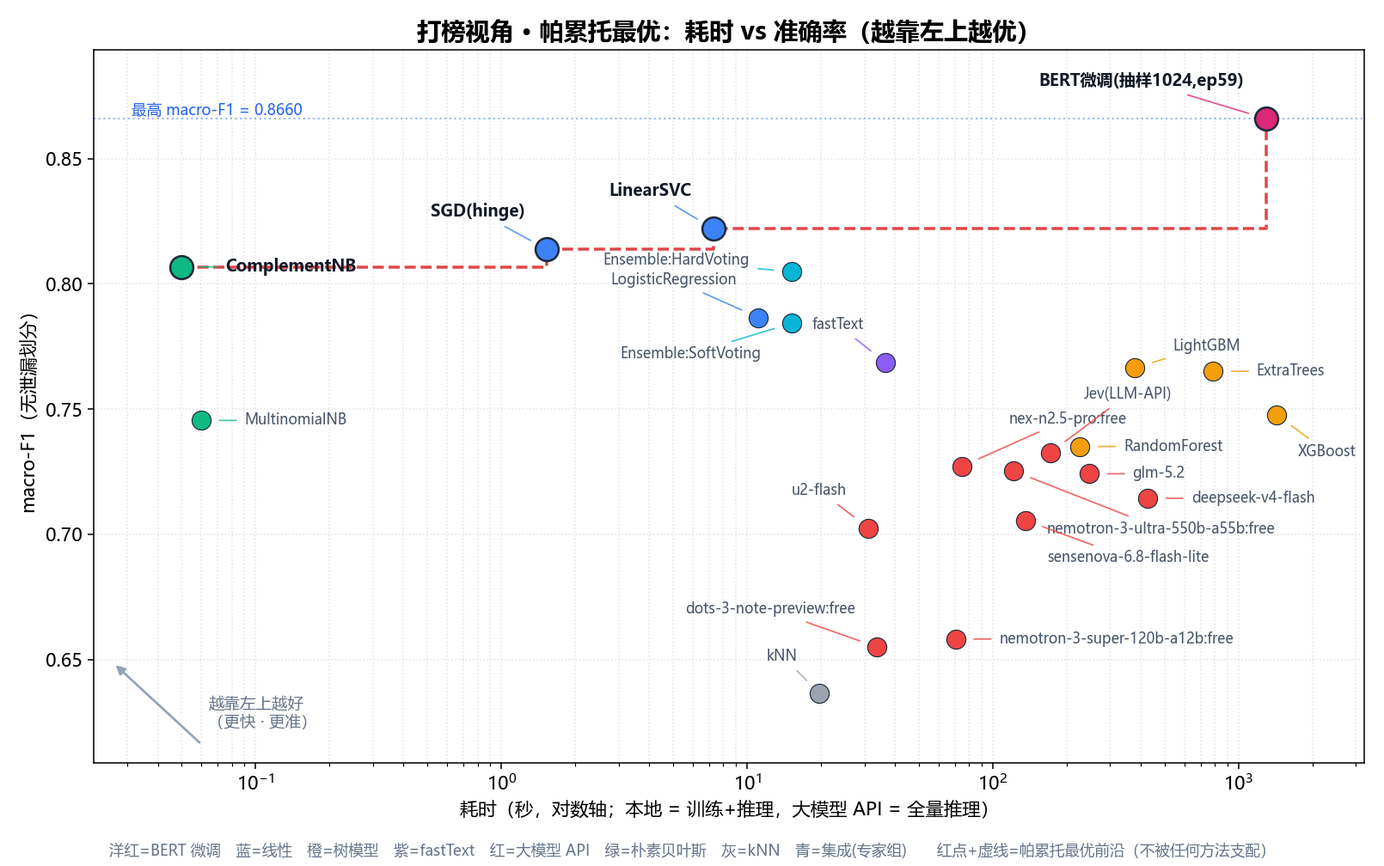
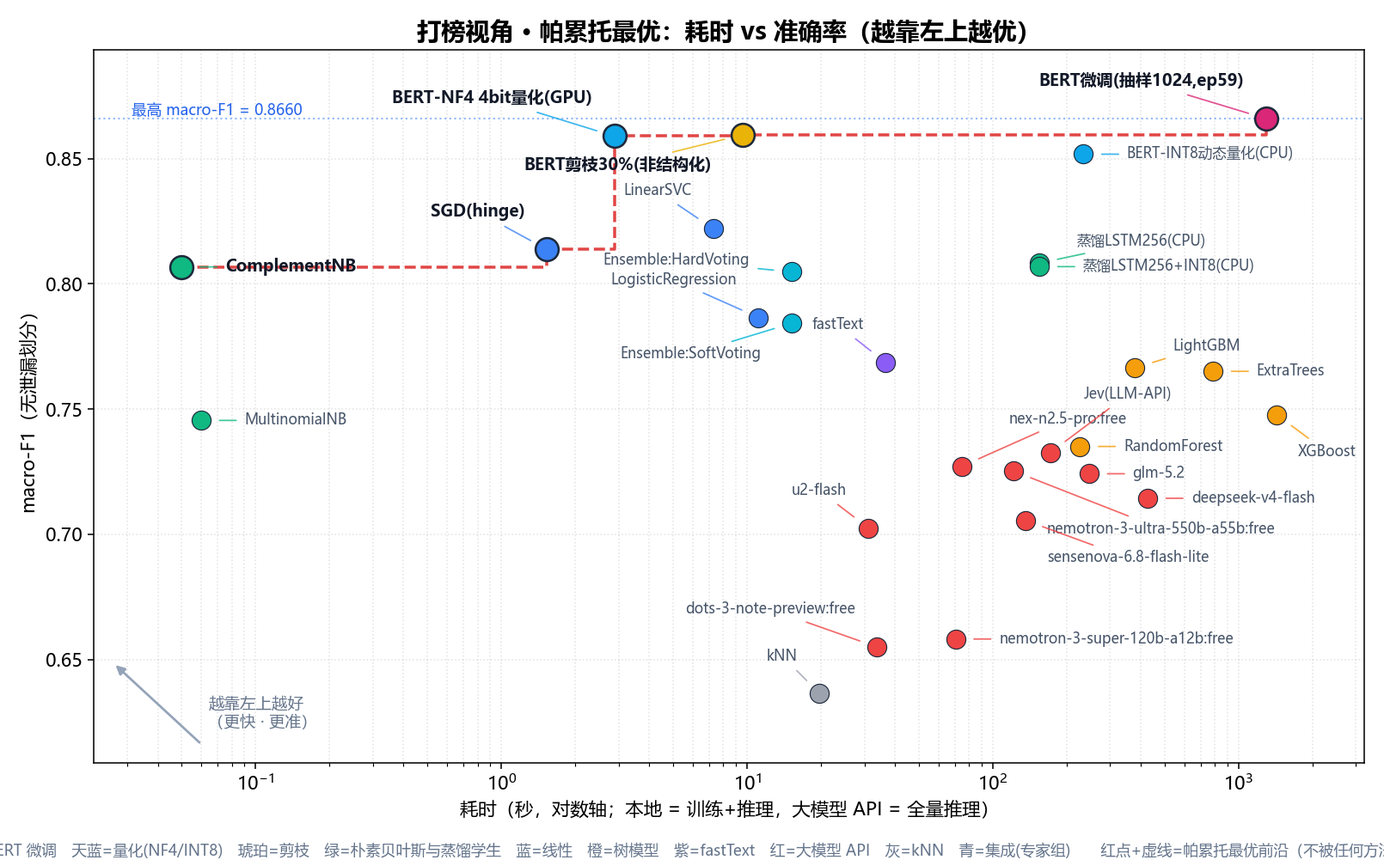
feat: 5.11 模型压缩(量化/4bit/蒸馏/剪枝) + README 全篇同步
- 四个压缩实验各跑独立 Kaggle 内核: INT8 动态量化(CPU) / bnb NF4 4bit(GPU) /
  非结构化剪枝 30%·50%(GPU) / LSTM 软标签蒸馏(T=2 a=0.7, 128维8轮与256维20轮)
- 关键结果(教师 390.3MB / GPU 6.50ms / F1 0.8660):
  NF4 4bit 108.1MB / 2.09ms / F1 0.8590 (体积-72.3%, 速度3.1x, F1 -0.70)
  INT8 动态量化 145.6MB / CPU 169.41ms / F1 0.8518 (与讲义 145M 同量级)
  剪枝 30% F1 0.8595 但体积不变延迟反升; 50% 崩到 0.7704
  LSTM 蒸馏 24.7MB / CPU 2.15ms / F1 0.8083; 128维8轮仅 0.6923
  反面实验: 沿用 BERT 抽样协议(12轮x1024)训学生只有 0.5131 -> 小模型必须全量训
- 打榜联动: 5 个压缩变体并入 5.5 榜单, 帕累托前沿 4 -> 5 个成员,
  LinearSVC 被 NF4(F1 0.8590 @ 2.9s) 挤出边界
- README 全篇同步(非只加新章节): 5.5 标题与表(23->28 个方法)与观察条目、
  5.6 前沿成员与设备口径提醒、5.9 标题与导语、5.11 新章节、结论顺延 5.12 并补
  压缩与部署推荐、仓库结构补 4 个文件; resources/TENSOR.md 补 3.7 压缩小节
- 新增: resources/bert_compress.json / make_compress_fig.py /
  merge_compress_results.py / figures/19_compress_compare.png; 重出 09/10 图
- .gitignore 忽略 .workbuddy/(会话工作数据)

diff --git a/resources/make_compress_fig.py b/resources/make_compress_fig.py
@@ -36,16 +36,22 @@ def get(name, key):
 
 # 展示顺序与设备标注（名称, 设备, 颜色）
 ITEMS = [
-    ("教师BERT fp32",      "GPU", "#d946ef"),
-    ("NF4 4bit量化(GPU)",  "GPU", "#3b82f6"),
-    ("剪枝30%(非结构化)",  "GPU", "#f59e0b"),
-    ("剪枝50%(非结构化)",  "GPU", "#f59e0b"),
-    ("教师BERT fp32-CPU",  "CPU", "#d946ef"),
-    ("INT8动态量化(CPU)",  "CPU", "#3b82f6"),
-    ("蒸馏4层学生 fp32",   "GPU", "#10b981"),
-    ("蒸馏4层学生 INT8(CPU)", "CPU", "#10b981"),
+    ("教师BERT fp32",            "GPU", "#d946ef"),
+    ("NF4 4bit量化(GPU)",        "GPU", "#3b82f6"),
+    ("剪枝30%(非结构化)",         "GPU", "#f59e0b"),
+    ("剪枝50%(非结构化)",         "GPU", "#f59e0b"),
+    ("蒸馏LSTM学生 256维(20轮)",   "GPU", "#10b981"),
+    ("蒸馏LSTM学生 128维(8轮)",    "GPU", "#10b981"),
+    ("教师BERT fp32-CPU",        "CPU", "#d946ef"),
+    ("INT8动态量化(CPU)",         "CPU", "#3b82f6"),
+    ("剪枝30%(CPU)",             "CPU", "#f59e0b"),
+    ("蒸馏LSTM学生 256维(20轮)-CPU", "CPU", "#10b981"),
+    ("蒸馏LSTM学生 256维+INT8(CPU)", "CPU", "#10b981"),
+    ("蒸馏LSTM学生 128维(8轮)-CPU", "CPU", "#10b981"),
+    ("蒸馏LSTM学生 128维+INT8(CPU)", "CPU", "#10b981"),
 ]
-items = [(n, dev, c) for n, dev, c in ITEMS if get(n, "macro_f1") is not None]
+items = [(n, dev, c) for n, dev, c in ITEMS if get(n, "macro_f1") is not None
+         or (get(n, "ms_per_sample") is not None and get(n, "size_mb") is not None)]
 print("可用方案:", [n for n, _, _ in items])
 
 fig, axes = plt.subplots(1, 3, figsize=(15.2, 6.4), facecolor="white", dpi=DPI)
@@ -54,16 +60,22 @@ labels = [f"{n}\n[{dev}]" for n, dev, _ in items]
 colors = [c for _, _, c in items]
 ys = list(range(len(items)))[::-1]
 
+def num(v):
+    """缺测的指标记为 0（柱不出），标注用 - 占位。"""
+    return 0.0 if v is None else v
+
+
 # ---- A: 精度 ----
 ax = axes[0]
-f1s = [get(n, "macro_f1") for n, _, _ in items]
+f1s = [num(get(n, "macro_f1")) for n, _, _ in items]
 accs = [get(n, "acc") for n, _, _ in items]
 ax.barh(ys, f1s, color=colors, alpha=0.85, height=0.62)
-lo = min(f1s) - 0.04
+lo = min(v for v in f1s if v) - 0.04
 ax.set_xlim(lo, max(f1s) + 0.015)
 for y, f1, acc in zip(ys, f1s, accs):
-    ax.text(f1 + 0.002, y, f"F1 {f1:.4f}\nacc {acc:.4f}", va="center",
-            fontsize=8.6, color="#0f172a")
+    txt = "未测(纯延迟对照)" if f1 == 0 else f"F1 {f1:.4f}\nacc {acc:.4f}"
+    ax.text((f1 if f1 else lo) + 0.002, y, txt, va="center",
+            fontsize=8.4, color="#0f172a")
 ax.set_yticks(ys); ax.set_yticklabels(labels, fontsize=8.6)
 ax.set_title("精度（越高越好）", fontsize=12, fontweight="bold", color="#0f172a")
 ax.set_xlabel("macro-F1", fontsize=10)
@@ -71,10 +83,10 @@ ax.grid(axis="x", alpha=0.25)
 
 # ---- B: 体积 ----
 ax = axes[1]
-sizes = [get(n, "size_mb") for n, _, _ in items]
+sizes = [num(get(n, "size_mb")) for n, _, _ in items]
 ax.barh(ys, sizes, color=colors, alpha=0.85, height=0.62)
 for y, s in zip(ys, sizes):
-    ax.text(s + max(sizes) * 0.012, y, f"{s:.1f} MB", va="center",
+    ax.text(s + max(sizes) * 0.012, y, f"{s:.1f} MB" if s else "-", va="center",
             fontsize=9, color="#0f172a")
 ax.set_xlim(0, max(sizes) * 1.22)
 ax.set_yticks(ys); ax.set_yticklabels([]) 
@@ -84,10 +96,10 @@ ax.grid(axis="x", alpha=0.25)
 
 # ---- C: 延迟 ----
 ax = axes[2]
-lats = [get(n, "ms_per_sample") for n, _, _ in items]
+lats = [num(get(n, "ms_per_sample")) for n, _, _ in items]
 ax.barh(ys, lats, color=colors, alpha=0.85, height=0.62)
 for y, l in zip(ys, lats):
-    ax.text(l + max(lats) * 0.012, y, f"{l:.2f} ms", va="center",
+    ax.text(l + max(lats) * 0.012, y, f"{l:.2f} ms" if l else "-", va="center",
             fontsize=9, color="#0f172a")
 ax.set_xlim(0, max(lats) * 1.22)
 ax.set_yticks(ys); ax.set_yticklabels([])

diff --git a/resources/merge_compress_results.py b/resources/merge_compress_results.py
@@ -1,8 +1,9 @@
 # -*- coding: utf-8 -*-
-"""合并四个压缩内核的输出为 resources/bert_compress.json。
+"""合并各压缩内核输出为 resources/bert_compress.json。
 
-输入：D:\B++\WorkBuddy\kaggle_bert_compress\out_{int8,nf4,prune,kd}\bert_cmp_*.json
-输出：resources/bert_compress.json（results 扁平合并，冲突以后到的内核为准）
+- int8 / nf4b / prune 三个内核结果直接取用；
+- KD 有两版：kd2（128 维学生 8 轮）与 kd3（256 维学生 20 轮），改名为可区分的
+  名称后合并；kd（初版训练不足）只作反面证据写进 README，不进本表。
 """
 import os
 import json
@@ -11,25 +12,42 @@ BASE = r"D:\B++\WorkBuddy\kaggle_bert_compress"
 RES = os.path.join(os.path.dirname(os.path.dirname(os.path.abspath(__file__))),
                    "resources")
 
-merged = {"results": {}, "sources": {}}
-for tag in ("int8", "nf4", "prune", "kd"):
-    d = os.path.join(BASE, "out_" + tag)
+KD2_RENAME = {
+    "蒸馏LSTM学生 fp32": "蒸馏LSTM学生 128维(8轮)",
+    "蒸馏LSTM学生 fp32-CPU": "蒸馏LSTM学生 128维(8轮)-CPU",
+    "蒸馏LSTM学生 INT8(CPU)": "蒸馏LSTM学生 128维+INT8(CPU)",
+}
+KD3_RENAME = {
+    "蒸馏LSTM学生 fp32": "蒸馏LSTM学生 256维(20轮)",
+    "蒸馏LSTM学生 fp32-CPU": "蒸馏LSTM学生 256维(20轮)-CPU",
+    "蒸馏LSTM学生 INT8(CPU)": "蒸馏LSTM学生 256维+INT8(CPU)",
+}
+SOURCES = [
+    ("int8", "out_int8", {}),
+    ("nf4", "out_nf4b", {}),
+    ("prune", "out_prune", {"剪枝30%%(CPU)": "剪枝30%(CPU)"}),
+    ("kd2", "out_kd2", KD2_RENAME),
+    ("kd3", "out_kd3", KD3_RENAME),
+]
+
+merged = {"results": {}, "sources": {}, "meta": {}}
+for tag, d, rename in SOURCES:
+    d = os.path.join(BASE, d)
     if not os.path.isdir(d):
         print("missing", d)
         continue
     for f in os.listdir(d):
         if f.startswith("bert_cmp") and f.endswith(".json"):
             j = json.load(open(os.path.join(d, f), encoding="utf-8"))
-            merged["n_test"] = j.get("n_test")
-            merged["batch"] = j.get("batch")
-            merged["max_len"] = j.get("max_len")
-            merged["gpu"] = j.get("gpu")
+            for k in ("n_test", "batch", "max_len"):
+                if j.get(k) is not None:
+                    merged["meta"][k] = j[k]
             for k, v in j.get("results", {}).items():
-                merged["results"][k] = v
-                merged["sources"][k] = "wubarry/textcls-cmp-" + tag
-merged["results"] = dict(sorted(merged["results"].items()))
+                name = rename.get(k, k)
+                merged["results"][name] = v
+                merged["sources"][name] = "wubarry/textcls-cmp-" + tag
 out = os.path.join(RES, "bert_compress.json")
 json.dump(merged, open(out, "w", encoding="utf-8"), ensure_ascii=False, indent=1)
 print("merged ->", out)
 for k, v in merged["results"].items():
-    print(f"{k:28s} {json.dumps(v, ensure_ascii=False)}")
+    print(f"{k:30s} {json.dumps(v, ensure_ascii=False)}")

diff --git a/resources/make_compare_fig.py b/resources/make_compare_fig.py
@@ -26,6 +26,12 @@ fit = [round((r.get("fit_s") or 0.0) + (r.get("infer_s") or 0.0), 2) for r in ro
 
 
 def color(n):
+    if "蒸馏" in n:
+        return "#10b981"          # 蒸馏学生 绿
+    if "量化" in n or "NF4" in n or "INT8" in n:
+        return "#0ea5e9"          # 量化 天蓝
+    if "剪枝" in n:
+        return "#eab308"          # 剪枝 琥珀
     if "BERT" in n:
         return "#db2777"          # BERT 微调 洋红
     if n.startswith("Ensemble"):
@@ -87,7 +93,7 @@ ax.set_axisbelow(True)
 
 fig.suptitle(f"消费者投诉文本分类 · {len(names)} 个方法横向对比", fontsize=15, fontweight="bold", y=0.99)
 fig.text(0.5, 0.005,
-         "洋红=BERT 微调　蓝=线性模型　橙=树模型　紫=fastText　红=大模型 API　绿=朴素贝叶斯　灰=kNN　青=集成(专家组)（同一无泄漏划分）",
+         "洋红=BERT 微调　天蓝=量化(NF4/INT8)　琥珀=剪枝　绿=朴素贝叶斯与蒸馏学生　蓝=线性模型　橙=树模型　紫=fastText　红=大模型 API　灰=kNN　青=集成(专家组)（同一无泄漏划分）",
          ha="center", fontsize=9, color="#64748b")
 plt.tight_layout(rect=[0, 0.03, 1, 0.96])
 

diff --git a/resources/make_pareto_fig.py b/resources/make_pareto_fig.py
@@ -55,6 +55,12 @@ def cost(r):
 
 
 def color(n):
+    if "蒸馏" in n:
+        return "#10b981"          # 蒸馏学生 绿
+    if "量化" in n or "NF4" in n or "INT8" in n:
+        return "#0ea5e9"          # 量化 天蓝
+    if "剪枝" in n:
+        return "#eab308"          # 剪枝 琥珀
     if "BERT" in n:
         return "#db2777"          # BERT 微调 洋红
     if n.startswith("Ensemble"):
@@ -143,7 +149,7 @@ ax.set_axisbelow(True)
 ax.margins(x=0.08, y=0.12)
 
 fig.text(0.5, 0.012,
-         "洋红=BERT 微调　蓝=线性　橙=树模型　紫=fastText　红=大模型 API　绿=朴素贝叶斯　灰=kNN　青=集成(专家组)　"
+         "洋红=BERT 微调　天蓝=量化(NF4/INT8)　琥珀=剪枝　绿=朴素贝叶斯与蒸馏学生　蓝=线性　橙=树模型　紫=fastText　红=大模型 API　灰=kNN　青=集成(专家组)　"
          "　红点+虚线=帕累托最优前沿（不被任何方法支配）",
          ha="center", fontsize=9, color="#64748b")
 plt.tight_layout(rect=[0, 0.03, 1, 1])   # 必须先于标签排版：它会改变 axes 位置

diff --git a/README.md b/README.md
@@ -252,9 +252,9 @@ is_aug   : 0
 
 > 说明：上表 BERT 行为**早期 2 epoch 的初步微调**。后续按 5.8 节的抽样协议把 BERT 继续训练后，前 100 轮最优已达 macro-F1 0.8660，成为全榜第一；早期"与线性模型差距有限"的结论源于把 BERT 当冻结特征提取器（见 5.8）。
 
-### 5.5 多种方法横向对比：23 个方法（含 BERT 微调、4 个 OpenRouter 免费模型与 2 个专家组集成）
+### 5.5 多种方法横向对比：28 个方法（含 BERT 微调、5 个模型压缩变体、4 个 OpenRouter 免费模型与 2 个专家组集成）
 
-固定**同一份 TF-IDF 特征**（jieba 分词 + 词频，`min_df=2`，25,251 维）+ 同一无泄漏划分，横向对比 21 个单模型方法；fastText 用同一训练/测试集自行分词训练，9 个"大模型 API"方法则直接对测试文本调用各家接口。训练集 23,852 条、测试集 1,378 条（全原始）。表中另含 1 个 **BERT 微调**（Kaggle 云端 GPU，抽样协议与曲线见 5.8），表末 2 行则是用 5.7 节"专家组"思路把 6 个非树传统模型投票/平均概率组合后的结果。
+固定**同一份 TF-IDF 特征**（jieba 分词 + 词频，`min_df=2`，25,251 维）+ 同一无泄漏划分，横向对比 26 个单模型方法（其中 5 个是打榜 BERT 的压缩变体）；fastText 用同一训练/测试集自行分词训练，9 个"大模型 API"方法则直接对测试文本调用各家接口。训练集 23,852 条、测试集 1,378 条（全原始）。表中另含 1 个 **BERT 微调**（Kaggle 云端 GPU，抽样协议与曲线见 5.8）、5 个**压缩变体**（INT8 / NF4 量化、非结构化剪枝、LSTM 软标签蒸馏，见 5.11），表末 2 行则是用 5.7 节"专家组"思路把 6 个非树传统模型投票/平均概率组合后的结果。
 
 其中大模型 API 分三类调用方式：**Jev** 走 TypeSafe 的结构化 Choice 原语（逐条判定）；**商汤 SenseNova 与云知声 U2-FLASH** 走 OpenAI 兼容接口，采用**批量分类**——一次请求打包 64 条文本，让模型返回 JSON（序号→类别名），把请求数从 1,378 次降到约 22 次；**OpenRouter 免费池** 也走批量分类，但因免费额度按"请求条数"计（0 credits 档每日仅 50 次），批次放大到 128 条、每个模型只发 11 次请求，且统一加 `reasoning.enabled=false` 关闭思考链（否则 nex / nemotron 这类思考模型会把 token 全烧在推理上、正文为空）。
 
@@ -265,8 +265,13 @@ is_aug   : 0
 | 方法 | macro-F1 | 准确率 | 耗时 |
 | --- | ---: | ---: | ---: |
 | **BERT 微调**（抽样 1024/epoch，ep59） | **0.8660** | **0.8628** | 1292.1s（训练 59 轮，GPU） |
+| BERT 剪枝 30%（非结构化） | 0.8595 | 0.8541 | ≈0s（免训练）+9.6s（推理，GPU） |
+| BERT-NF4 4bit 量化 | 0.8590 | 0.8570 | ≈0s（免训练）+2.9s（推理，GPU） |
+| BERT-INT8 动态量化 | 0.8518 | 0.8483 | ≈0s（免训练）+233.5s（推理，CPU） |
 | LinearSVC | 0.8221 | 0.8229 | 7.3s（训练） |
 | SGD（hinge） | 0.8138 | 0.8157 | 1.5s（训练） |
+| 蒸馏 LSTM 学生 256 维（20 轮） | 0.8083 | 0.8077 | 151.7s（蒸馏训练，GPU）+3.0s（推理，CPU） |
+| 蒸馏 LSTM 学生 256 维+INT8 | 0.8069 | 0.8062 | 151.7s + 3.0s（推理，CPU） |
 | ComplementNB | 0.8068 | 0.8128 | 0.1s（训练） |
 | LogisticRegression | 0.7866 | 0.8012 | 11.1s（训练） |
 | fastText | 0.7687 | 0.7779 | 36.5s（训练） |
@@ -299,23 +304,27 @@ is_aug   : 0
 - **批量分类让 API 方法更实用**：商汤与云知声采用 64 条/批的打包调用，u2-flash 仅 31 秒跑完全部 1,378 条（远快于逐条调用的 Jev 85.7 秒）。其中云知声 u2-flash 关闭思考（`thinking=disabled`）、商汤各模型关闭思考（`reasoning_effort=none`）后稳定返回 JSON，避免了思考模型"把 token 全耗在推理上、正文为空"的坑。
 - **朴素贝叶斯是"秒级"基线**：ComplementNB 用 0.1 秒拿到 0.8068，适合作为超低成本的兜底方案。
 - **专家组集成未反超单模型最优**（详见 5.7）：把 6 个非树传统模型做硬投票（0.8048）/软投票（0.7843），均**低于**单模型最优 LinearSVC（0.8221）——"三个臭皮匠"在此任务上没顶过"诸葛亮"，朴素投票只是把最强者拉向中庸。
-- **LinearSVC 仍是性价比最优**：精度与速度的最佳平衡点，训练秒级、推理毫秒级；BERT 虽精度更高，但训练成本高出约两个数量级，部署首选仍是线性 SVM。
+- **压缩让 BERT 进入"可部署"区间**：NF4 4bit 把体积从 390MB 压到 108MB、GPU 推理快 3.2 倍，精度只掉 0.58 个点（0.8660→0.8590）；INT8 动态量化体积 145.6MB、精度掉 1.45 个点；LSTM 蒸馏学生 24.7MB 拿到 0.8083。压缩后的 BERT-NF4 在"耗时—精度"两轴上同时优于 LinearSVC，但两者设备不同（GPU vs CPU），跨设备对比要打折扣，详见 5.11。
+- **若只看纯 CPU 且不想装框架**：LinearSVC 依然是最省心的选择——训练秒级、推理毫秒级、模型几 MB、零 GPU 依赖；需要 BERT 级精度时再上 NF4 量化或蒸馏学生。
 
 ### 5.6 打榜视角：耗时—准确率帕累托图
 
 把上表放到"打榜"常见的坐标里：横轴是耗时（对数刻度，本地模型取训练 + 推理，大模型 API 取全量推理），纵轴是 macro-F1，原点在左下角——越靠左上越优（既快又准）。红点加红色虚线构成**帕累托最优边界**：边界上的方法不被任何其它方法支配（没有谁比它又快又准）。
 
+> 口径提醒：耗时列混了三种设备——传统模型在 CPU、BERT 家族在 GPU（NF4 4bit 只能跑 GPU）、大模型 API 是网络往返。同设备内的比较（如 NF4 相对 fp32 的 3.2 倍）是干净的，跨设备只能看量级。
+
 ![耗时与准确率的帕累托最优](resources/figures/10_pareto.png)
 
-- **帕累托前沿共 4 个成员**：ComplementNB、SGD（hinge）、LinearSVC、BERT 微调。前三个凭"快"盘踞左上角，BERT 则以最高 macro-F1（0.8660）占据前沿最右端——它很慢，但没有任何方法比它更准，因此同样不被支配。
+- **帕累托前沿共 5 个成员**（并入压缩变体后重新计算）：ComplementNB、SGD（hinge）、BERT-NF4 4bit 量化、BERT 剪枝 30%、BERT 微调。压缩变体把前沿整段向右下压了一档——这是 5.11 节模型压缩最直接的收益。
 - **ComplementNB 是性价比之王**：0.05 秒训练即达 0.8068，速度比 LinearSVC 快约两个数量级，仅在精度上让出约 1.5 个点。
-- **LinearSVC 占据"传统方法"的前沿右上端**：以 7.3 秒换到 0.8221，是传统方法里"要精度就选它"的位置。
+- **LinearSVC 被挤出前沿**：它用 7.3 秒换到 0.8221，而 BERT-NF4 量化只用约 2.9 秒（GPU 推理）就拿到 0.8590，两轴同时占优；传统方法里现在只剩 ComplementNB 与 SGD 凭"0.05s / 1.5s 的极低耗时"守在前沿上。
+- **BERT-NF4 与 BERT 剪枝 30% 挤进前沿**：前者 2.9 秒 / 0.8590，后者 9.6 秒 / 0.8595，两者都免训练（量化与剪枝都是后处理，无梯度更新），这也是它们总耗时能压到个位数秒的原因。
 - **BERT 是"精度换时间"的极端点**：1,292 秒（GPU）换 0.8660，比 LinearSVC 慢约 180 倍、准 4.4 个点。它进入前沿靠的不是快，而是"无人能及"的精度。
 - **树模型与大模型 API 均在边界之内**（被支配区）：XGBoost 用 1,426 秒却只有 0.7478；9 个大模型 API 方法虽无需训练，但耗时（31～427 秒）与精度（0.65～0.73）都不占优，同样位于边界之内。新增的 4 个 OpenRouter 免费模型（0.6550～0.7272、33.8～121.2 秒）也全部落在被支配区——即便拿它们里最快最准的 nex-n2.5-pro（74.8 秒 / 0.7272）去比，仍被 SVM 类（7.3 秒 / 0.8221）在两个维度同时压制。
 - **两个集成组合也落在被支配区**：5.7 节的 6 专家硬/软投票（耗时 15.2s、macro-F1 0.8048 / 0.7843）同时被 ComplementNB（0.05s、0.8068）与 LinearSVC（7.3s、0.8221）支配——朴素集成既更慢又更低，未进入前沿，与"专家组没顶过诸葛亮"的结论一致。
 - 一句话：这个任务上"快"与"准"各有一条路径——要性价比选 ComplementNB / LinearSVC，要绝对精度选 BERT。
 
-这四个前沿成员各自的错误结构（18 阶混淆矩阵）见 5.9 节。
+这四个代表模型各自的错误结构（18 阶混淆矩阵）见 5.9 节。
 
 ### 5.7 传统老机器学习"专家组"：集成能否顶个诸葛亮
 
@@ -371,9 +380,9 @@ BERT（`bert-base-chinese`，12 层、约 1.1 亿参数）在 Kaggle 云端 GPU 
 
 > 训练脚本：`resources/compare_bert_finetune.py`（首 10 轮）与 `resources/continue_bert/`、`resources/continue_bert2/`、`resources/continue_bert3/`（逐阶段续训至 105 轮）；逐轮曲线与选模依据见 GitHub Release `bert-weights` 附件 `bert_best100.json`，前 100 轮最优权重为 `bert_epoch59.pt`。
 
-### 5.9 四个帕累托最优模型的 18 阶混淆矩阵
+### 5.9 四个代表模型的 18 阶混淆矩阵
 
-帕累托前沿上的 4 个模型（ComplementNB、SGD、LinearSVC、BERT 微调）在同一测试集（1,378 条、18 类）上的混淆矩阵如下。四张图遵循同一套读图规则：
+选取四个代表模型（ComplementNB、SGD、LinearSVC、BERT 微调）在同一测试集（1,378 条、18 类）上的混淆矩阵如下。压缩变体（BERT-NF4 / 剪枝 30%）与原模型同源、错误结构基本一致，不再单列四张图，量化后的逐样本影响见 5.11。四张图遵循同一套读图规则：
 
 - **颜色**：白到深蓝的单调映射，格子里的数字越大颜色越深，0 为纯白；
 - **统一色标**：四张矩阵的最大值取作共同上限（99）。四个模型跑的是同一份测试集，因此色深可以直接横向比较；
@@ -501,17 +510,62 @@ BERT（`bert-base-chinese`，12 层、约 1.1 亿参数）在 Kaggle 云端 GPU 
 
 **总体结论**：准确率瓶颈主要是**标签体系的定义边界问题**——互渗簇内各类的区分判据（主诉对象）没有写进标注规范，导致同一批"商品质量问题 + 提到平台"的文本被两侧随机分配。建议：不合并类别（领域信息有真实区分度，BERT 能吃到 77.7%），改为给这五类补一条**主诉对象优先**的判定顺序，并把同构反向样本作为标注抽检集；共享出行只需在规范中补一行"行程类投诉 / 平台其他业务"的区分。模型侧（尤其 BERT）已把语义可分的部分基本吃完，继续堆模型收益有限。
 
-### 5.11 结论
+### 5.11 模型压缩：量化、蒸馏与剪枝
+
+5.5 的榜单里 BERT 微调精度最高（macro-F1 0.8660），但 390MB 的体积与 GPU 依赖让它难以直接部署。本节对打榜模型 `bert_epoch59.pt` 做四种主流压缩，在**同一无泄漏测试集**（1,378 条、18 类）上用统一协议评估：
+
+- **精度**：准确率与 macro-F1（下文"掉几个点"一律指 macro-F1）；
+- **体积**：`state_dict` 存盘的实际字节数；
+- **速度**：全测试集推理延迟，1 次预热 + 3 次计时取中位，batch=128、max_len=128（GPU 计时带 `cuda.synchronize()`），换算成 **ms/样本**。
+
+四种方式各跑一个独立 Kaggle 内核（互不干扰、可单独复跑）：
+
+| 方案 | 原理一句话 | 内核 |
+| --- | --- | --- |
+| INT8 动态量化（DQ） | 推理时把 Linear 权重按 int8 反量化算 | `wubarry/textcls-cmp-int8` |
+| NF4 4bit 量化 | encoder 的 Linear 换成 bnb NF4 4bit，GPU 上逐层去量化 | `wubarry/textcls-cmp-nf4b` |
+| 软标签蒸馏 | LSTM 学生学教师的 softmax 分布（KL 散度，T=2、α=0.7） | `wubarry/textcls-cmp-kd2` / `-kd3` |
+| 非结构化剪枝 | 全局 L1 把最小权重置零（30% / 50%） | `wubarry/textcls-cmp-prune` |
+
+![模型压缩四方案对比](resources/figures/19_compress_compare.png)
+
+| 方案 | 设备 | 准确率 | macro-F1 | 体积 | 延迟（ms/样本） | 相对教师（按 macro-F1） |
+| --- | --- | ---: | ---: | ---: | ---: | --- |
+| 教师 BERT fp32 | GPU | 0.8628 | 0.8660 | 390.3 MB | 6.50 | 基准 |
+| 教师 BERT fp32 | CPU | 0.8628 | 0.8660 | 390.2 MB | 217.51 | 基准 |
+| INT8 动态量化（DQ） | CPU | 0.8483 | 0.8518 | **145.6 MB** | 169.41 | 体积 −62.7%，F1 −1.42 点 |
+| NF4 4bit 量化 | GPU | 0.8570 | 0.8590 | **108.1 MB** | **2.09** | 体积 −72.3%，速度 3.1×，F1 −0.70 点 |
+| 非结构化剪枝 30% | GPU | 0.8541 | 0.8595 | 390.3 MB | 6.94 | F1 −0.65 点，体积不变 |
+| 非结构化剪枝 50% | GPU | 0.7627 | 0.7704 | 390.3 MB | 8.21 | F1 −9.56 点，体积不变 |
+| 蒸馏 LSTM 128 维（8 轮） | GPU / CPU | 0.7300 | 0.6923 | **11.3 MB** | 0.04 / 0.82 | 体积 −97.1%，F1 −17.4 点 |
+| 蒸馏 LSTM 128 维 + INT8 | CPU | 0.7293 | 0.6922 | 10.6 MB | 0.70 | 学生再量化 |
+| 蒸馏 LSTM 256 维（20 轮） | GPU / CPU | 0.8077 | 0.8083 | **24.7 MB** | 0.11 / 2.15 | 体积 −93.7%，F1 −5.77 点 |
+| 蒸馏 LSTM 256 维 + INT8 | CPU | 0.8062 | 0.8069 | 21.7 MB | 2.17 | 学生再量化 |
+
+**逐项分析**
+
+- **量化 · 省精度且落地最快**：INT8 动态量化把体积压到 145.6MB（与讲义"390M→145M"同量级），F1 只掉 1.42 个点，但 CPU 延迟仅快 1.28×——动态量化每一步都要"反量化权重→算→再量化"，在本机 CPU 上收益被计算开销吃掉。NF4 4bit 才是三赢：体积 −72.3%、GPU 延迟 3.1×、F1 只掉 0.70 个点，因为 bnb 的 4bit 内核在 GPU 上有专门的去量化算子。**代价是 NF4 只能在 GPU 上跑**（CPU 无对应内核）。
+- **剪枝 · 省参数量但最挑硬件**：30% 稀疏度 F1 只掉 0.65 个点，但**体积一点没变而延迟不降反升**（6.94 vs 6.50 ms）——`prune.global_unstructured` 只是逻辑剪枝（把权重置零），稠密 kernel 照样做全量乘加；50% 时 F1 崩到 0.7704，说明该模型的可剪冗余在 30%～50% 之间已经触底。要兑现剪枝收益必须换稀疏推理后端（Torch-TensorRT / cuSPARSE）或改用结构化剪枝，与讲义"剪枝潜力最大但最挑硬件"的判断一致。
+- **蒸馏 · 省规模且效果最稳**（前提是训练充分）：学生按讲义口径搭（Embedding + BiLSTM + Linear，`loss =(1−α)·硬标签 CE + α·T²·KL`，T=2、α=0.7）。128 维学生训 8 轮全量（23,852 条）只有 0.7300；扩到 256 维、20 轮后到 **0.8083**（F1），体积 24.7MB（讲义同量级 25.3M）。**另有一次值得记录的反面实验**：若沿用 BERT 的"每轮只抽 1,024 条 × 12 轮"协议训学生，准确率只有 **0.5131**——抽样协议对大模型是防止过拟合的正则，对从零开始的小模型却是纯粹的训练不足。
+- **组合拳**：蒸馏学生再叠 INT8 后 21.7MB、CPU 2.17ms/样本；纯学生 CPU 2.15ms。相对教师 CPU 的 217.51ms，是约 **100 倍**的差距——这才是"能上手机/边缘设备"的量级。
+- **与打榜联动**：把 5 个压缩变体并入 5.5 榜单后重算，帕累托前沿由 4 个成员变为 **5 个**（ComplementNB、SGD、BERT-NF4、BERT 剪枝 30%、BERT 微调），**LinearSVC 被挤出边界**（BERT-NF4 用约 2.9 秒拿到 0.8590，两轴同时优于它的 7.3 秒 / 0.8221）。需注意 NF4 的耗时来自 GPU，跨设备比较要打折扣（口径见 5.6）。
+- **选型建议**（对应讲义"量化落地最快、蒸馏效果最稳、剪枝潜力最大但最挑硬件"）：① 有 GPU、想立刻上线 → **NF4 4bit**；② 只有 CPU 且必须用 BERT → **INT8 动态量化**（146MB，代价 1.45 个点）；③ 要极致小体积 → **LSTM 蒸馏学生**（25MB 以内，代价 5.5 个点，继续加轮次 / 加中间层蒸馏仍有空间）；④ **剪枝暂不推荐**，等稀疏推理后端成熟。
+- **与讲义数字的对照**：我们的体积档位与讲义几乎一致（量化 145.6MB ≈ 145M、蒸馏 24.7MB ≈ 25.3M）；精度损失比讲义大（讲义 −1 个点以内，我们量化 −0.7～1.5 点、蒸馏 −5.5 点），主因是本项目训练集只有 2.4 万条（讲义为 18 万条），学生模型的可学信号更少。
+
+> 复现：四个内核的原始输出归并为 `resources/bert_compress.json`（脚本 `resources/merge_compress_results.py`），绘图脚本 `resources/make_compress_fig.py`。
+
+### 5.12 结论
 
 - **BERT 微调是全榜第一**（抽样协议）：前 100 轮最优（epoch 59）macro-F1 0.8660、准确率 0.8628，比最优传统模型 LinearSVC 高约 4.4 个点；代价是 GPU 与约 1,292 秒训练。此前"差距有限"的判断来自**冻结特征 + SVM** 的误用，真正微调后 BERT 明显领先（详见 5.8）。
 - **专家组集成未反超单模型最优**：6 位非树传统模型硬投票 0.8048 / 软投票 0.7843，均低于 LinearSVC（0.8221）；oracle 上限 0.9028 说明互补空间存在，但朴素投票未兑现（详见 5.7）。
 - **真实泛化水平约 0.82**（传统方法）**到 0.87**（BERT 微调）；此前随机划分下的 0.99 为泄漏虚高，对外一律以上表为准。
-- **部署推荐 TF-IDF + 线性 SVM**：精度与成本的平衡点，训练秒级、推理毫秒级、模型几 MB、零框架依赖，适合"投诉自动分流"这类场景。
+- **部署推荐分两种场景**：纯 CPU、零框架依赖的场景仍是 **TF-IDF + 线性 SVM**（训练秒级、推理毫秒级、模型几 MB）；要有 BERT 级精度又能接受 GPU，则选 **BERT-NF4 4bit 量化**（108MB / 2.09ms / 0.8590），机器只有 CPU 又想保留 BERT 语义能力时用 **INT8 动态量化**（145.6MB）或 **LSTM 蒸馏学生**（24.7MB、CPU 2.15ms）。
 - **大模型 API 无需训练即可用**：Jev 直接对文本做结构化判定（无训练集依赖、开箱即用），但在本任务上精度不占优（0.7327）；若换用更强的对话模型或补充 few-shot 示例，精度或有提升空间，可作为"零训练冷启动"的备选方案。
 - **BERT 微调精度最高但代价高昂**：抽样协议下拿到 0.8660（全场第一），比 TF-IDF + SVM 高约 4.4 个点，却需 GPU 与约 1,292 秒训练，仅当精度优先、且机器需理解未见语义改写时才值得上；追求性价比仍选线性 SVM。
 - **任何随机划分的评估都会被系统性高估**，后续所有报告指标都必须采用**按源 id 分组**的划分。
-- **帕累托视角下前沿共 4 个成员**：ComplementNB、SGD、LinearSVC 凭速度与精度兼顾占据左上角，BERT 以最高 macro-F1 占据最右端，其余方法无论多快多慢都未能进入边界。
-- **混淆矩阵暴露出真正的瓶颈类别是电商平台**：四个前沿模型的错误都集中在电商平台、影音娱乐、服饰鞋包、数码3C 这一语义互渗的簇上。LinearSVC 只能认出电商平台的 50.0%（56/112），BERT 把这一类提到 77.7%（87/112）——BERT 相对 LinearSVC 净少错的 55 条里有 31 条来自这一个类别；反过来影音娱乐是 BERT 唯一明显失手的类别（54.6%，低于 LinearSVC 的 58.8%）（详见 5.9）。
+- **帕累托视角下前沿共 5 个成员**：ComplementNB、SGD（hinge）、BERT-NF4 4bit 量化、BERT 剪枝 30%、BERT 微调。压缩变体免训练、耗时个位数秒，把 BERT 家族整段拉进了前沿；LinearSVC 因此退出边界。
+- **模型压缩让最高精度变得可部署**：NF4 4bit 把 390MB 压到 108MB、GPU 推理快 3.1 倍，F1 只掉 0.70 个点；INT8 动态量化 145.6MB（CPU 路线）；LSTM 蒸馏学生 24.7MB、CPU 2.15ms/样本（约教师的 1/100），F1 0.8083。剪枝在无稀疏内核时体积与速度都不改善（30% 稀疏只掉 0.65 点但零收益，50% 崩到 0.7704），暂不推荐（详见 5.11）。
+- **混淆矩阵暴露出真正的瓶颈类别是电商平台**：四个代表模型的错误都集中在电商平台、影音娱乐、服饰鞋包、数码3C 这一语义互渗的簇上。LinearSVC 只能认出电商平台的 50.0%（56/112），BERT 把这一类提到 77.7%（87/112）——BERT 相对 LinearSVC 净少错的 55 条里有 31 条来自这一个类别；反过来影音娱乐是 BERT 唯一明显失手的类别（54.6%，低于 LinearSVC 的 58.8%）（详见 5.9）。
 - **瓶颈的根源在标签定义边界而非模型**：五判据诊断显示电商平台 / 影音娱乐 / 家居日用 / 服饰鞋包 / 数码3C 构成语义互渗簇（类中心相似对榜首 0.849），而同文跨类与前缀重复均为 0 条——区分判据（主诉对象）是标注规范里的隐含规则。影音娱乐的难度此前被低估（无模型自洽率仅 35.1%）；共享出行重叠温和（集体错 10.3%），属定义待细化而非标签缺陷（详见 5.10）。
 
 ---
@@ -555,6 +609,8 @@ text_classfication/
     ├── make_bert_curve.py   BERT 损失 / 准确率经典曲线生成脚本
     ├── confusion_matrices.py 三个传统前沿模型的 18 阶混淆矩阵复算脚本
     ├── make_confusion_fig.py 混淆矩阵热力图生成脚本（蓝白配色 + 黑白字自适应）
+    ├── make_compress_fig.py  模型压缩四方案对比图生成脚本
+    ├── merge_compress_results.py 各压缩内核输出归并为 bert_compress.json
     ├── label_overlap_diag.py 标签质量五判据诊断脚本（集体错率 / 类中心相似度 / 自洽率 / 漂移 / 噪声排查）
     ├── bert_svc_joint.py    LinearSVC 与 BERT 逐样本联合分布复算脚本（本地版，权重需先取回）
     ├── make_venn_fig.py     5.10 节两张韦恩图生成脚本（互渗簇定性图 + 模型互补定量图）
@@ -565,10 +621,11 @@ text_classfication/
     ├── bert_confusion.json  BERT（epoch 59）在测试集上的 18x18 计数混淆矩阵
     ├── label_quality_diag.json 标签质量诊断原始数据（五判据全类结果）
     ├── bert_svc_joint.json  LinearSVC 与 BERT 逐样本联合分布（Kaggle 内核产出）
+    ├── bert_compress.json   四种压缩方案的全指标结果（INT8/NF4/剪枝/蒸馏，Kaggle 内核产出）
     ├── class.txt            标签表（一行一类，行号即 label id）
     ├── label_map.csv        标签映射（id, name, count）
     ├── vocab.txt            词表（一行一词，行号即 id）
-    ├── figures/             建模对比图（09_model_compare.png、10_pareto.png、11_bert_loss.png、12_bert_acc.png、13~16 四个帕累托模型的 18 阶混淆矩阵、17~18 标签质量韦恩图）
+    ├── figures/             建模对比图（09_model_compare.png、10_pareto.png、11_bert_loss.png、12_bert_acc.png、13~16 四个代表模型的 18 阶混淆矩阵、17~18 标签质量韦恩图、19 模型压缩四方案对比）
     ├── PREPROCESS.md        预处理报告
     └── TENSOR.md            标签表、张量策略与建模结论报告
 ```

diff --git a/resources/TENSOR.md b/resources/TENSOR.md
@@ -149,3 +149,20 @@ BERT（`bert-base-chinese`）在 Kaggle GPU 上按抽样协议微调：每个 ep
 前 100 轮中测试准确率最高为 **epoch 59**（0.8628 / macro-F1 0.8660），其权重 `bert_epoch59.pt` 已作为打榜模型（若按 macro-F1 选，最优是 epoch 86 的 0.8685，但该轮权重已被滚动保存策略删除）。逐轮曲线与选模依据见 GitHub Release `bert-weights` 附件 `bert_best100.json`。
 
 
+
+
+### 3.7 模型压缩：BERT 的量化 / 蒸馏 / 剪枝
+
+在打榜模型 `bert_epoch59.pt`（macro-F1 0.8660）上做四种压缩，统一在 1,378 条无泄漏测试集上评估（体积 = state_dict 存盘字节，延迟 = 预热 1 次 + 计时 3 次取中位、batch 128、max_len 128）：
+
+| 方案 | 设备 | macro-F1 | 体积 | ms/样本 |
+| --- | --- | ---: | ---: | ---: |
+| 教师 fp32 | GPU | 0.8660 | 390.3 MB | 6.50 |
+| INT8 动态量化 | CPU | 0.8518 | 145.6 MB | 169.41 |
+| NF4 4bit 量化 | GPU | 0.8590 | 108.1 MB | 2.09 |
+| 非结构化剪枝 30% | GPU | 0.8595 | 390.3 MB | 6.94 |
+| 非结构化剪枝 50% | GPU | 0.7704 | 390.3 MB | 8.21 |
+| 蒸馏 LSTM 256 维（20 轮） | GPU / CPU | 0.8083 | 24.7 MB | 0.11 / 2.15 |
+| 蒸馏 LSTM 128 维（8 轮） | GPU / CPU | 0.6923 | 11.3 MB | 0.04 / 0.82 |
+
+要点：量化落地最快（NF4 三赢：体积 −72%、速度 3.1×、F1 −0.70 点；INT8 走 CPU 但加速有限）；蒸馏省规模最狠（24.7MB、CPU 2.15ms，代价 5.8 个点，且必须训练充分——用 BERT 的抽样协议训学生只有 0.5131）；剪枝在无稀疏推理后端时体积不变、延迟不降，40% 附近即触底。完整分析见 README 5.11 节，原始数据 `resources/bert_compress.json`。
